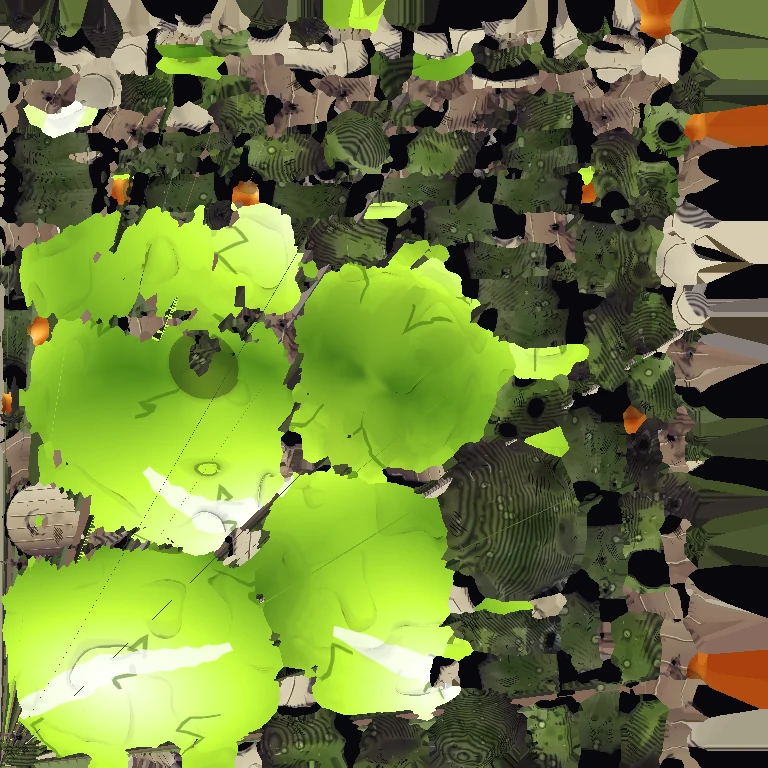
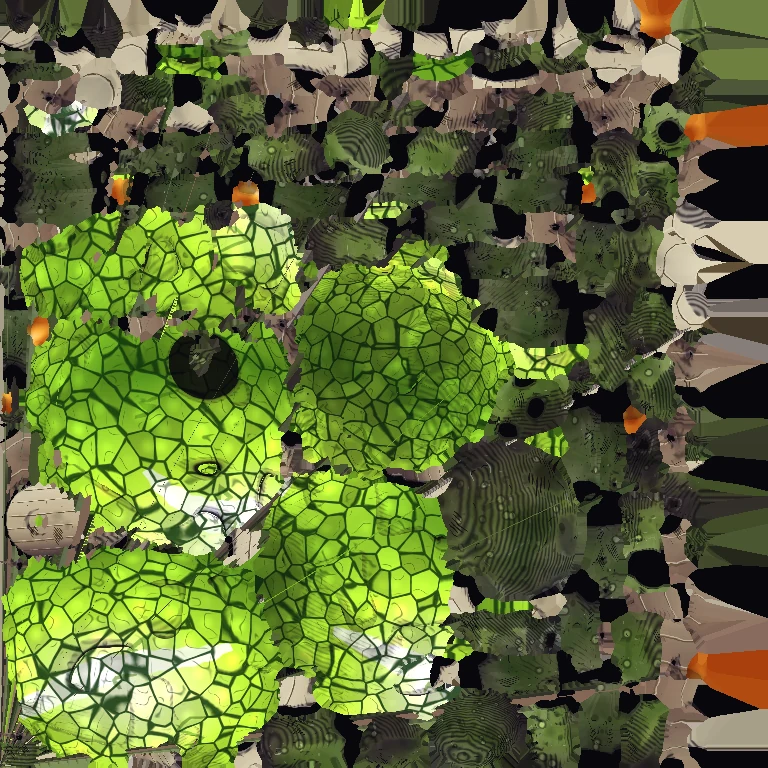
Carry each faction's surface onto its buildings, vein the Blister's sac
Shot old against new, the building shade from the last commit barely
shows: buildings stand in the open, so little of them is shut in. This
pulls the lever that worked on the units instead.

- skins: a tiling cell pass (cellular) that rolls no dice. craze() lays
  cracked plates, hairlines and gold mends on the Veyl shell skins;
  mottle() lays blotches and ringed warts on the Gloam hide. The pass
  returns at once where there is no picture to work on, so the match
  server starts as fast as before.
- dump-skins opens the page with ?plainskins, so the bake's base
  colours carry no cracks or warts of their own.
- bake: a sac brush (cells and veins) for the Gloam's glowing sacs, and
  Part(glow=) so a big sac does not bleach to white.
- Rigger: a lighter grade and a cleaner face brush. All-cloth bodies
  take the deepest tone and he had come out darker than before.

Claude-Session: https://claude.ai/code/session_0142VVw7wVYQtHEP2HcKspGZ

diff --git a/src/skins.ts b/src/skins.ts
@@ -106,6 +106,44 @@ export function nicks(g: Ctx, s: number, n: number, col: string, len = 40, w = 2
   for (let i = 0; i < n; i++) { g.globalAlpha = R(.45, .95); const x = R(.05, .95) * s, y = R(.05, .95) * s, a = R(-.5, .5) + (rnd() < .5 ? 0 : 1.57), l = R(8, len); pen(g, [[x, y], [x + Math.cos(a) * l * .5 + R(-2, 2), y + Math.sin(a) * l * .5], [x + Math.cos(a) * l, y + Math.sin(a) * l]], R(1.2, w), col); }
   g.globalAlpha = 1;
 }
+/** The model bake reads the skins as flat colour and lays cracks, mends and warts on itself, so `tools/dump-skins.cjs` asks for them without (`?plainskins`). */
+export const PLAIN = typeof location !== 'undefined' && location.search.includes('plainskins');
+const h3 = (i: number, j: number, k: number) => { const v = Math.sin(i * 127.1 + j * 311.7 + k * 74.7) * 43758.5453; return v - Math.floor(v); };
+/** A pass over a finished skin, cell by cell. `fn` is told how far a dot is from its cell's wall (0 on it), how far from the cell's middle, which cell,
+ *  which cell lies over the wall and a slow drift 0..1, and changes the dot's colour in place. It wraps, so the skin still tiles, and it rolls no dice. */
+export function cellular(g: Ctx, s: number, n: number, seed: number, fn: (c: Uint8ClampedArray, o: number, wall: number, mid: number, id: number, other: number, drift: number) => void) {
+  if (PLAIN) return;
+  const im = g.getImageData(0, 0, s, s), d = im.data; if (!(d instanceof Uint8ClampedArray)) return;      // no picture to work on where nothing is drawn (the match server)
+  const px = new Float32Array(n * n), py = new Float32Array(n * n), pid = new Float32Array(n * n), w = (i: number) => ((i % n) + n) % n;
+  for (let j = 0; j < n; j++) for (let i = 0; i < n; i++) { const k = j * n + i; px[k] = i + .15 + h3(i, j, seed) * .7; py[k] = j + .15 + h3(i, j, seed + 9) * .7; pid[k] = h3(i, j, seed + 31); }
+  const N = 4, lat = new Float32Array((N + 1) * (N + 1)); for (let j = 0; j <= N; j++) for (let i = 0; i <= N; i++) lat[j * (N + 1) + i] = h3(i % N, j % N, seed + 57);
+  const ease = (t: number) => t * t * (3 - 2 * t);
+  for (let y = 0; y < s; y++) {
+    const v = y / s * n, cj = Math.floor(v), fv = y / s * N, j0 = Math.floor(fv), ty = ease(fv - j0);
+    for (let x = 0; x < s; x++) {
+      const u = x / s * n, ci = Math.floor(u); let a = 99, b = 99, ia = 0, ib = 0;
+      for (let dj = -1; dj <= 1; dj++) { const jj = cj + dj, wj = w(jj), oy = jj - wj - v;
+        for (let di = -1; di <= 1; di++) { const ii = ci + di, wi = w(ii), k = wj * n + wi, ex = px[k] + ii - wi - u, ey = py[k] + oy, e = ex * ex + ey * ey; if (e < a) { b = a; ib = ia; a = e; ia = k; } else if (e < b) { b = e; ib = k; } } }
+      a = Math.sqrt(a); b = Math.sqrt(b);
+      const fu = x / s * N, i0 = Math.floor(fu), tx = ease(fu - i0), q = j0 * (N + 1) + i0;
+      fn(d, (y * s + x) * 4, b - a, a, pid[ia], pid[ib], (lat[q] * (1 - tx) + lat[q + 1] * tx) * (1 - ty) + (lat[q + N + 1] * (1 - tx) + lat[q + N + 2] * tx) * ty);
+    }
+  }
+  g.putImageData(im, 0, 0);
+}
+export const sstep = (a: number, b: number, x: number) => { const t = Math.min(1, Math.max(0, (x - a) / (b - a))); return t * t * (3 - 2 * t); };
+/** Old lacquer: crazed into plates, each a touch its own shade, and the widest cracks mended with gold. The Veyl throw nothing away. */
+export function craze(g: Ctx, s: number, n = 6, seed = 1, gold = .42) {
+  const GR = 222, GG = 164, GB = 54;
+  cellular(g, s, n, seed, (c, o, wall, _mid, id, other) => {
+    const k = 1 + (id - .5) * .34;
+    if (wall > .16) { c[o] *= k; c[o + 1] *= k; c[o + 2] *= k; return; }
+    if ((id + other) % 1 < gold) {
+      const m = 1 - sstep(.08, .11, wall), f = k * (1 - (1 - sstep(.11, .16, wall)) * (1 - m) * .62), hi = (1 - sstep(.0, .035, wall)) * .5;
+      c[o] = c[o] * f * (1 - m) + (GR + hi * 33) * m; c[o + 1] = c[o + 1] * f * (1 - m) + (GG + hi * 70) * m; c[o + 2] = c[o + 2] * f * (1 - m) + (GB + hi * 120) * m;
+    } else { const f = k * (1 - (1 - sstep(.01, .07, wall)) * .66); c[o] *= f; c[o + 1] *= f; c[o + 2] *= f; }
+  });
+}
 export interface SkinOpts extends ToonOpts { kind?: 'box' | 'band' | 'none' | 'cap'; wear?: number; metal?: string; rivets?: number; hatch?: number; ink?: number; dir?: number; pre?: (g: Ctx, s: number) => void; post?: (g: Ctx, s: number) => void }
 /** A painted hard surface. */
 export function skin(base: string, o: SkinOpts = {}) {
@@ -307,11 +345,12 @@ EXTRA.push(() => {
     brush(g, s, base, 30, 1.4); sky(g, s, 1.2); vein(g, s, veins, '#35e0c8');
     for (let i = 0; i < 4; i++) hatch(g, R(.1, .7) * s, s * R(.55, .8), s * R(.14, .26), -1.0, 6, s * .022, s * .0075);
     for (let i = 0; i < 3; i++) { const y = R(.1, .9) * s; pen(g, [[0, y], [s * .3, y + R(-16, 16)], [s * .7, y + R(-16, 16)], [s, y]], R(2.5, 4), INK, .7); }
+    craze(g, s, kind === 'box' ? 5 : 6, veins * 7 + (kind === 'box' ? 3 : 0));
     nicks(g, s, 8, tone(base, 1.7), 60, 4);
     frame(g, s, base, kind, 7);
   }, { blot: 40 });
   S('vI', shell('#6a55e6', 'band', 5)); S('vIp', shell('#6a55e6', 'box', 3)); S('vD', shell('#4636b4', 'band', 3)); S('vDp', shell('#4636b4', 'box', 2));
-  S('vL', paint('#d9d2f4', (g, s) => { brush(g, s, '#d9d2f4', 24, 1.4); sky(g, s, 1.3); for (let i = 0; i < 9; i++) { let x = R(0, s), y = R(0, s); const pts = [[x, y]]; for (let k = 0; k < 4; k++) { x += R(-40, 40); y += R(10, 50); pts.push([x, y]); } pen(g, pts, R(2, 4), '#3a2f6a'); } for (let i = 0; i < 4; i++) hatch(g, R(.1, .7) * s, s * R(.55, .8), s * .2, -1.0, 6, s * .022, s * .007, '#3a2f6a'); frame(g, s, '#d9d2f4', 'band', 7); }, { blot: 30 }));
+  S('vL', paint('#d9d2f4', (g, s) => { brush(g, s, '#d9d2f4', 24, 1.4); sky(g, s, 1.3); for (let i = 0; i < 9; i++) { let x = R(0, s), y = R(0, s); const pts = [[x, y]]; for (let k = 0; k < 4; k++) { x += R(-40, 40); y += R(10, 50); pts.push([x, y]); } pen(g, pts, R(2, 4), '#3a2f6a'); } for (let i = 0; i < 4; i++) hatch(g, R(.1, .7) * s, s * R(.55, .8), s * .2, -1.0, 6, s * .022, s * .007, '#3a2f6a'); craze(g, s, 6, 23, .4); frame(g, s, '#d9d2f4', 'band', 7); }, { blot: 30 }));
   S('vG', paint('#f2c14a', (g, s) => { brush(g, s, '#f2c14a', 20, 0); sky(g, s, 1.2); for (let i = 0; i < 7; i++) seam(g, s, (i + .5) / 7, 5); for (let i = 0; i < 12; i++) { const x = R(0, s), y = R(0, s); g.strokeStyle = INK; g.lineWidth = 3; g.beginPath(); g.arc(x, y, R(8, 20), R(0, 3), R(3, 6)); g.stroke(); } nicks(g, s, 18, '#fff4c8', 30); frame(g, s, '#f2c14a', 'box', 6); }, { blot: 20 }), { emis: .25 });
   S('vC', paint('#7ff0e4', (g, s) => { const gr = g.createLinearGradient(0, 0, s, s); gr.addColorStop(0, '#eafffb'); gr.addColorStop(.5, '#62e6d8'); gr.addColorStop(1, '#2a9cc4'); g.fillStyle = gr; g.fillRect(0, 0, s, s); for (let i = 0; i < 9; i++) { const x = R(0, s); g.globalAlpha = R(.3, .7); g.fillStyle = rnd() < .5 ? '#ffffff' : '#2a8fc0'; g.beginPath(); g.moveTo(x, 0); g.lineTo(x + R(20, 70), 0); g.lineTo(x + R(-60, 60), s); g.fill(); g.globalAlpha = 1; pen(g, [[x, 0], [x + R(-30, 30), s * .5], [x + R(-60, 60), s]], R(2.5, 5), '#12506a', .5); } frame(g, s, '#7ff0e4', 'box', 6); }, { blot: 0 }), { emis: .5 });
   S('vM', paint('#ff4f9a', (g, s) => { const gr = g.createRadialGradient(s * .42, s * .4, 8, s * .5, s * .5, s * .62); gr.addColorStop(0, '#fff0f6'); gr.addColorStop(.4, '#ff5fa6'); gr.addColorStop(1, '#a01c6a'); g.fillStyle = gr; g.fillRect(0, 0, s, s); pen(g, [[s * .22, s * .66], [s * .4, s * .3], [s * .7, s * .2]], 22, 'rgba(255,255,255,.8)'); }, { blot: 0 }), { emis: .78 });

diff --git a/src/gloam-art.ts b/src/gloam-art.ts
@@ -4,7 +4,7 @@ import { figure } from './meshes';
 import * as THREE from 'three';
 import { INK, R, rnd, M, TX, EXTRA, paint, tone, T, mk, G, setLayer, L_FX } from './gfx';
 import type { Ctx } from './gfx';
-import { pen, hatch, brush, frame, sky, nicks } from './skins';
+import { pen, hatch, brush, frame, sky, nicks, cellular, sstep } from './skins';
 import { lathe, hard, spl, rbox, blob, tube, plate, ring, shard, warp, crescent, capsule } from './sculpt';
 import { grp, put } from './units';
 
@@ -23,12 +23,21 @@ function lichen(g: Ctx, s: number, n: number, dark: string, lite: string) {
 function wrinkles(g: Ctx, s: number, n: number, col = INK) {
   for (let i = 0; i < n; i++) { const x = R(.05, .95) * s, y = R(.05, .95) * s, l = R(16, 44), a = R(-.4, .4) + (rnd() < .3 ? H : 0); pen(g, [[x, y], [x + Math.cos(a) * l * .5, y + Math.sin(a) * l * .5 + R(4, 10)], [x + Math.cos(a) * l, y + Math.sin(a) * l]], R(2, 4), col); }
 }
+/** Hide blotched darker in patches and dotted with pale warts, each in a dark ring: the same marks the painted bodies carry. */
+function mottle(g: Ctx, s: number, seed: number) {
+  cellular(g, s, 9, seed, (c, o, _wall, mid, id, _other, drift) => {
+    const blot = sstep(.42, .62, drift), on = id > .45 && mid < .38;
+    const ring = on ? 1 - sstep(.19, .25, mid) * (1 - sstep(.3, .38, mid)) * .6 : 1, wart = on ? (1 - sstep(.15, .23, mid)) * .8 : 0;
+    const r = c[o] * (1 - blot * .42) * ring, gr = c[o + 1] * (1 - blot * .3) * ring, b = c[o + 2] * (1 - blot * .46) * ring;
+    if (wart) { c[o] = r * (1 - wart) + Math.min(255, r * 1.5 + 40) * wart; c[o + 1] = gr * (1 - wart) + Math.min(255, gr * 1.5 + 40) * wart; c[o + 2] = b * (1 - wart) + Math.min(255, b * 1.5 + 40) * wart; } else { c[o] = r; c[o + 1] = gr; c[o + 2] = b; }
+  });
+}
 /** Growth lines across chitin, like the rings on a shell. */
 function growth(g: Ctx, s: number, n: number) {
   for (let i = 0; i < n; i++) { const y = (i + R(.3, .7)) / n * s; pen(g, [[0, y], [s * .3, y + R(-6, 6)], [s * .7, y + R(-6, 6)], [s, y]], R(2, 3.5), '#6a5636', .4); g.globalAlpha = .6; pen(g, [[0, y - 6], [s * .5, y - 6 + R(-3, 3)], [s, y - 6]], 2, '#fffbe8', .5); g.globalAlpha = 1; }
 }
 const hide = (base: string, kind: 'box' | 'band' | 'none' | 'cap') => paint(base, (g, s) => {
-  brush(g, s, base, 30, 1.3); sky(g, s, 1.1); lichen(g, s, 46, tone(base, .55), tone(base, 1.45)); wrinkles(g, s, 16);
+  brush(g, s, base, 30, 1.3); sky(g, s, 1.1); lichen(g, s, 46, tone(base, .55), tone(base, 1.45)); wrinkles(g, s, 16); mottle(g, s, base === MOSS ? 3 : 8);
   for (let i = 0; i < 4; i++) hatch(g, R(.05, .65) * s, s * R(.55, .8), s * R(.16, .3), -1.0, 6, s * .022, s * .008);
   nicks(g, s, 10, tone(base, 1.7), 40, 3);
   if (kind !== 'none') frame(g, s, base, kind, 7);

diff --git a/src/meshes.ts b/src/meshes.ts
@@ -23,7 +23,7 @@ function unpack(c: { head: any; geos: THREE.BufferGeometry[] }, u8: Uint8Array, 
   for (const m of c.head.meshes) {
     const n = m.nv, q = new Uint16Array(u8.buffer, base + m.pos, n * 3), nq = new Int8Array(u8.buffer, base + m.nrm, n * 4), uq = new Uint16Array(u8.buffer, base + m.uv, n * 2), ix = new Uint16Array(u8.buffer, base + m.idx, m.ni);
     const pos = new Float32Array(n * 3), nrm = new Float32Array(n * 3), uv = new Float32Array(n * 2), em = new Float32Array(n);
-    const skin = (M[m.mat] || M.nS).uniforms, glow = Math.min(1, skin.uEmis.value) + 2 * Math.round(skin.uShine.value * 10);
+    const skin = (M[m.mat] || M.nS).uniforms, glow = Math.min(1, m.glow ?? skin.uEmis.value) + 2 * Math.round(skin.uShine.value * 10);
     for (let i = 0; i < n; i++) {
       for (let k = 0; k < 3; k++) { pos[i * 3 + k] = (m.lo[k] + q[i * 3 + k] / 65535 * (m.hi[k] - m.lo[k])) * S; nrm[i * 3 + k] = nq[i * 4 + k] / 127; }
       uv[i * 2] = uq[i * 2] / 65535; uv[i * 2 + 1] = uq[i * 2 + 1] / 65535; em[i] = own ? glow : 32 * (nq[i * 4 + 3] + 16);   // the crease rides in the high part of aEm (see TOON_VS)

diff --git a/art/kit/bake.py b/art/kit/bake.py
@@ -366,6 +366,8 @@ def cells(p, seed=0.0):
 
 def kind_of(mat, sk):
     """What a skin is made of, as far as the brush cares."""
+    if mat == 'gS':
+        return 'sac'
     if sk.get('emis', 0) > .3:
         return 'glow'
     if mat.startswith(('fab', 'vest', 'cloth')):
@@ -386,10 +388,11 @@ BRUSH = {
     'plate': dict(ink=1.0, tone=.5, hatch=.7, wear=.9, chip=.95, scratch=.55, stain=.0, dust=.5, bare=(.72, .74, .8)),
     'cloth': dict(ink=.95, tone=.62, hatch=1.0, wear=.35, chip=.0, scratch=0, stain=1.0, dust=.85, bare=None),
     'hide': dict(ink=1.0, tone=.58, hatch=.9, wear=.6, chip=.5, scratch=.3, stain=.6, dust=.95, bare=None),
-    'flesh': dict(ink=.8, tone=.42, hatch=.5, wear=0, chip=0, scratch=0, stain=0, dust=.2, bare=None),
+    'flesh': dict(ink=.8, tone=.36, hatch=.15, wear=0, chip=0, scratch=0, stain=0, dust=0, bare=None),
     'shell': dict(ink=1.0, tone=.6, hatch=.75, wear=.8, chip=.4, scratch=.3, stain=0, dust=.3, bare=None, craze=1.0),
     'growth': dict(ink=1.0, tone=.6, hatch=.8, wear=.45, chip=0, scratch=0, stain=.5, dust=.3, bare=None, mottle=1.0),
     'glow': dict(ink=.3, tone=.12, hatch=0, wear=0, chip=0, scratch=0, stain=0, dust=0, bare=None),
+    'sac': dict(ink=.85, tone=.36, hatch=.3, wear=0, chip=0, scratch=0, stain=0, dust=0, bare=None, veins=1.0),
 }
 
 
@@ -462,7 +465,7 @@ def paint(fig, meshes, res=1024, log=print, unit=1.0):
             edge.append(np.clip(1 + near(P - n * h) / (h * steep), 0, 1))
         wob = S.noise(P, 38 / unit, 5.1) * .6 + S.noise(P, 110 / unit, 1.7) * .4            # a hand that presses harder here than there
         big = S.noise(P, 7 / unit, 3.3)
-        glow = br is BRUSH['glow']
+        glow = br is BRUSH['glow'] or bool(br.get('veins'))
         # the colour itself: knocked back a little, never quite the same twice across a surface
         if not glow:
             grey = base @ np.array([.3, .59, .11], F)
@@ -475,6 +478,14 @@ def paint(fig, meshes, res=1024, log=print, unit=1.0):
             base = base * (1 - hair[:, None] * .7)
             mend = (1 - smooth(.02, .085, wall)) * smooth(.5, .62, S.noise(P, 3.2 / unit, 9.7) + (cid - .5) * .25) * br['craze']
             base = base * (1 - mend[:, None]) + np.array([.86, .63, .2], F) * mend[:, None]
+        if br.get('veins'):                          # a Gloam sac: a taut skin over something bright, each cell its own strength, veined dark where the skin is thick
+            f1, f2, cid = cells(P / (.07 * unit), 3.9)
+            wall = f2 - f1
+            base = np.minimum(base * (.78 + cid[:, None] * .34) * (1 + (1 - smooth(.0, .45, f1))[:, None] * .22), 1)
+            vein = (1 - smooth(.025, .1, wall + (wob - .5) * .05)) * br['veins']
+            twig = (1 - smooth(.0, .03, np.abs(S.noise(P, 26 / unit, 6.1) - .5))) * smooth(.1, .3, wall) * .55 * br['veins']      # hair veins wandering across the cells
+            vein = np.maximum(vein, twig)
+            base = base * (1 - vein[:, None] * .84) + np.array([.06, .2, .05], F) * vein[:, None] * .84
         if br.get('mottle') and part.mat[:2] in ('gH', 'gD'):                         # the Gloam: hide blotched darker in patches and dotted with pale warts
             f1, f2, cid = cells(P / (.045 * unit), 7.7)
             blot = smooth(.48, .66, S.noise(P, 8 / unit, 4.4)) * br['mottle']

diff --git a/art/kit/build.py b/art/kit/build.py
@@ -29,7 +29,7 @@ TINT = {'fabT': '#a8744a', 'fab': '#4d577c', 'fabG': '#6f7a55', 'fabR': '#b3362b
 
 
 class Part:
-    def __init__(self, name, group, mat, fn, tris, voxel=.003, uv=('cyl',), sharp=42.0, lo=None, hi=None, planar=0.0, cull=True, detail=None, texel=1.0, twin=None, marks=()):
+    def __init__(self, name, group, mat, fn, tris, voxel=.003, uv=('cyl',), sharp=42.0, lo=None, hi=None, planar=0.0, cull=True, detail=None, texel=1.0, twin=None, marks=(), glow=None):
         """planar (degrees) is for flat-sided things: faces that lie within that angle of each other are merged first, so plate stays plate.
         cull=False keeps the faces a neighbour buries: a pipe cut into open lengths under its own collars falls apart when it is thinned."""
         self.name, self.group, self.mat, self.fn, self.tris, self.voxel, self.uv, self.sharp, self.lo, self.hi, self.planar, self.cull = name, group, mat, fn, tris, voxel, uv, sharp, lo, hi, planar, cull
@@ -38,6 +38,7 @@ class Part:
         self.true = fn if detail is None else sdf.bump(fn, detail)
         self.texel = texel
         self.marks = marks                     # paint laid on the part for the picture: [(where(p) -> 0..1, (r, g, b)), ...], worn like the rest
+        self.glow = glow                       # how strongly this part glows, where that is not its skin's own strength (a big sac at full strength bleaches to white)
         self.twin = twin                       # the name of the part this one is the mirror image of (a left leg of a right one): it takes that part's mesh and its place in the picture
 
 
@@ -417,6 +418,8 @@ class Figure:
             cq = np.clip(np.round(rec[:, 8:9] * 15), -15, 15).astype(np.int8)
             uq = np.round(np.clip(rec[:, 6:8], 0, 1) * 65535).astype(np.uint16)
             m = {'part': part.name, 'group': part.group, 'mat': part.mat, 'nv': int(len(rec)), 'ni': int(len(idx)), 'lo': [float(x) for x in lo], 'hi': [float(x) for x in hi]}
+            if part.glow is not None:
+                m['glow'] = float(part.glow)
             for k, arr in (('pos', q), ('nrm', np.concatenate([nq, cq], 1)), ('uv', uq), ('idx', idx.astype(np.uint16))):
                 while len(blob) % 4:
                     blob.append(0)

diff --git a/art/gloam.py b/art/gloam.py
@@ -154,7 +154,7 @@ def build_blister():
     C = V(0, .64, -.06)
     sac = S.ellipsoid(C, (.38, .35, .4))
     sac = S.bump(sac, lambda p: .02 * np.sin(p[..., 0] * 9) + .03 * (S.noise(p, 5, 3.3) - .5) + .025 * np.clip((S.noise(p, 9, 7.7) - .62) * 5, 0, 1))   # stretched tight and lumpy
-    fig.add('sac', 'halo', 'gS', sac, 1300, voxel=.0045, uv=('cyl', C))
+    fig.add('sac', 'halo', 'gS', sac, 1300, voxel=.0045, uv=('cyl', C), glow=.46)
     veins = []
     for i in range(5):                                                                                             # dark veins holding it down
         a = i / 5 * 2 * PI + .3

diff --git a/art/rigger.py b/art/rigger.py
@@ -9,7 +9,7 @@ sys.path.insert(0, __file__.rsplit('/', 1)[0])
 from kit import sdf as S, build as B, human as Hu
 from kit.sdf import V, rot
 
-fig = B.Figure('rigger', scale=1.06, detail=.85, paint=1024)
+fig = B.Figure('rigger', scale=1.06, detail=.85, paint=1024, grade=(.96, 1.06))      # he is all cloth, which takes the deepest tone: keep him as warm and light as the troopers' plate
 HIP = .93
 fig.group('body', (0, 0, 0))
 fig.group('legL', (-.105, HIP, 0))
